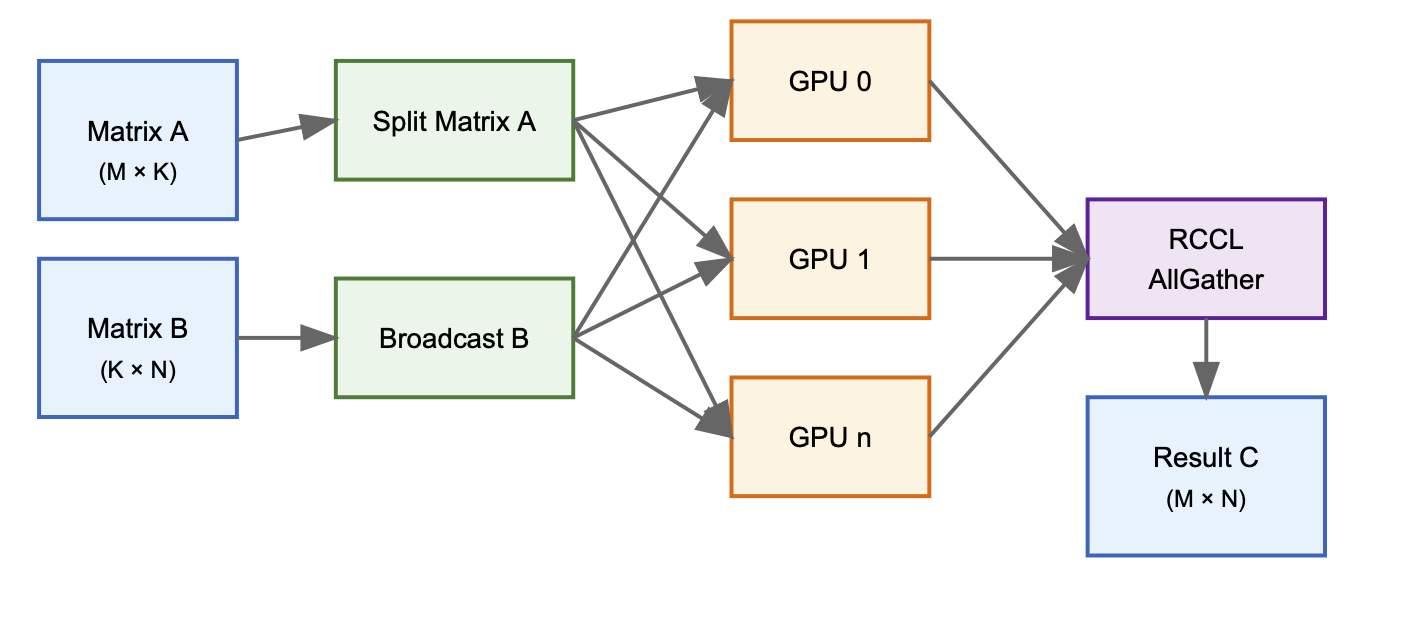
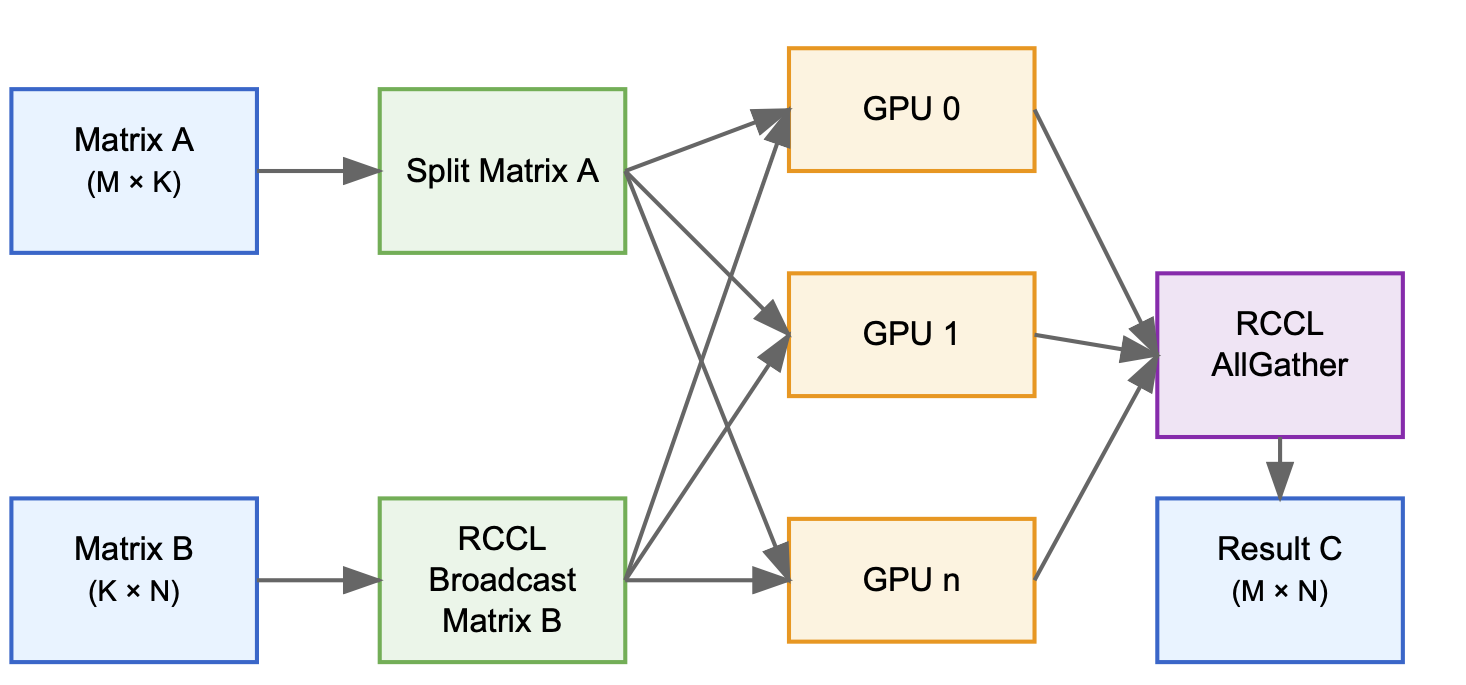
Edits to rccl_gpu_matmul.rst

Changed region(s): [[0.0, 0.0304, 0.978, 0.9744], [0.0611, 0.8526, 0.1222, 0.883], [0.0611, 0.5785, 0.1222, 0.609]]

diff --git a/docs/source/rccl_gpu_matmul.rst b/docs/source/rccl_gpu_matmul.rst
@@ -29,12 +29,20 @@ Multi-GPU Matrix Multiplication: Architecture and Implementation
 
 Single-GPU Matrix Multiplication
 ^^^^^^^^^^^^^^^^^^^^^^^^^^^^^^^^
+Matrix multiplication represents one of the fundamental operations in scientific computing and machine learning workloads, and its efficient implementation on GPUs has been a focus of significant optimization efforts. On a single GPU, the computation leverages highly optimized Basic Linear Algebra Subprograms (BLAS) libraries, specifically rocBLAS for AMD GPUs, to perform the core multiplication operation.
 
-Matrix multiplication on a single GPU leverages highly optimized BLAS libraries like rocBLAS to compute the product of two matrices. For matrices A (M×K) and B (K×N), rocBLAS implements the general matrix multiplication formula:
+Key aspects of single-GPU matrix multiplication:
 
-C = α · op(A) · op(B) + β · C
+* **Core Formula**:  For matrices A (M×K) and B (K×N), rocBLAS implements :math:`C = \alpha \cdot op(A) \cdot op(B) + \beta \cdot C`, where op(X) allows for optional transpose operations
 
-where op(X) represents optional transpose operations on the input matrices. While efficient for moderate sizes, this approach becomes memory-bound as matrices grow larger, ultimately hitting the memory capacity limits of a single GPU.
+* **Performance Characteristics**:
+    - Excellent performance for matrices fitting in device memory
+    - Leverages vendor-optimized BLAS implementations
+    - Uses sophisticated tiling and memory hierarchy optimizations
+
+* **Key Limitations**:
+    - Memory capacity constraints of single GPU
+    - Memory bandwidth bottlenecks between host and device
 
 .. figure:: _static/single-gpu-flow.png
    :alt: Single GPU Matrix Multiplication Workflow
@@ -44,8 +52,23 @@ where op(X) represents optional transpose operations on the input matrices. Whil
 
 Distributed Implementation
 ^^^^^^^^^^^^^^^^^^^^^^^^^^
+To address the limitations of single-GPU implementations, we can leverage multiple GPUs within a single host machine to distribute both the memory requirements and computational load. Our implementation adopts a horizontal partitioning strategy for matrix A while broadcasting matrix B in its entirety to all participating GPUs.
 
-To overcome these limitations, we can distribute the computation across multiple GPUs within a single host machine. As shown in the diagram below, our approach splits matrix A horizontally across available GPUs while broadcasting matrix B to each device. This strategy allows each GPU to compute a portion of the final result independently, after which RCCL (ROCm Communication Collectives Library) consolidates these partial results into the complete output matrix using its allGather operation.
+Core implementation features:
+
+* **Data Distribution**:
+    - Matrix A split horizontally across GPUs
+    - Matrix B broadcast in full to each GPU
+
+* **Computation Flow**:
+    - Each GPU processes its partition independently
+    - Results consolidated via RCCL allGather operation
+
+* **Key Benefits**:
+    - Minimal inter-GPU communication during computation
+    - Balanced workload distribution
+    - Efficient memory utilization
+
 
 .. figure:: _static/matmul_rccl_workflow.png
    :alt: Distributed Matrix Multiplication Workflow
@@ -53,21 +76,38 @@ To overcome these limitations, we can distribute the computation across multiple
    
    Workflow of distributed matrix multiplication across multiple GPUs
 
-The workflow begins by dividing matrix A into equal horizontal partitions, with each GPU receiving M/n rows for n GPUs. Matrix B is broadcast in its entirety to all GPUs using RCCL's broadcast operation, enabling each device to compute its assigned portion of the output matrix. Once local computation is complete, RCCL's allGather operation efficiently combines these partial results into the final M×N output matrix.
-
 Distribution Strategy
 ^^^^^^^^^^^^^^^^^^^^^
-The distribution phase involves two key operations:
+The distribution phase employs two critical operations that enable efficient multi-GPU matrix multiplication. Our approach balances computational efficiency with memory requirements, optimizing for real-world performance.
 
-1. **Horizontal Partitioning**: For a system with n GPUs, matrix A is divided into n horizontal sections, each containing M/n rows. This partitioning ensures balanced computation across devices.
-2. **Matrix B Broadcasting**: The entire matrix B is replicated across all GPUs. While this requires additional memory, it eliminates the need for inter-GPU communication during the computation phase.
+Strategy components:
+
+* **Horizontal Partitioning**:
+    - Matrix A divided into n equal sections for n GPUs
+    - Each partition contains M/n rows
+    - Ensures balanced computation across devices
+
+* **Matrix B Broadcasting**:
+    - Complete matrix replicated to all GPUs
+    - Eliminates inter-GPU communication during computation
+    - Trade-off: increased memory usage for better performance
+
 
 RCCL Communication
 ^^^^^^^^^^^^^^^^^^
-The ROCm Communication Collectives Library (RCCL) provides efficient multi-GPU communication primitives. In our implementation, we utilize:
+The ROCm Communication Collectives Library (RCCL) serves as the backbone for efficient multi-GPU communication in our implementation. The library provides highly optimized primitives that leverage underlying hardware interconnects effectively.
 
-1. **Broadcast**: For distributing matrix B across all devices, ensuring each GPU has a complete copy for computation
-2. **AllGather**: For collecting and combining partial results into the final matrix, efficiently consolidating the distributed computations
+Key RCCL operations:
+
+* **Broadcast Operation**:
+    - Distributes matrix B to all devices
+    - Minimizes redundant data transfers
+    - Ensures computation consistency
+
+* **AllGather Operation**:
+    - Collects partial results from all GPUs
+    - Combines results into final output matrix
+    - Implements efficient communication patterns
 
 Memory Requirements
 ^^^^^^^^^^^^^^^^^^^
